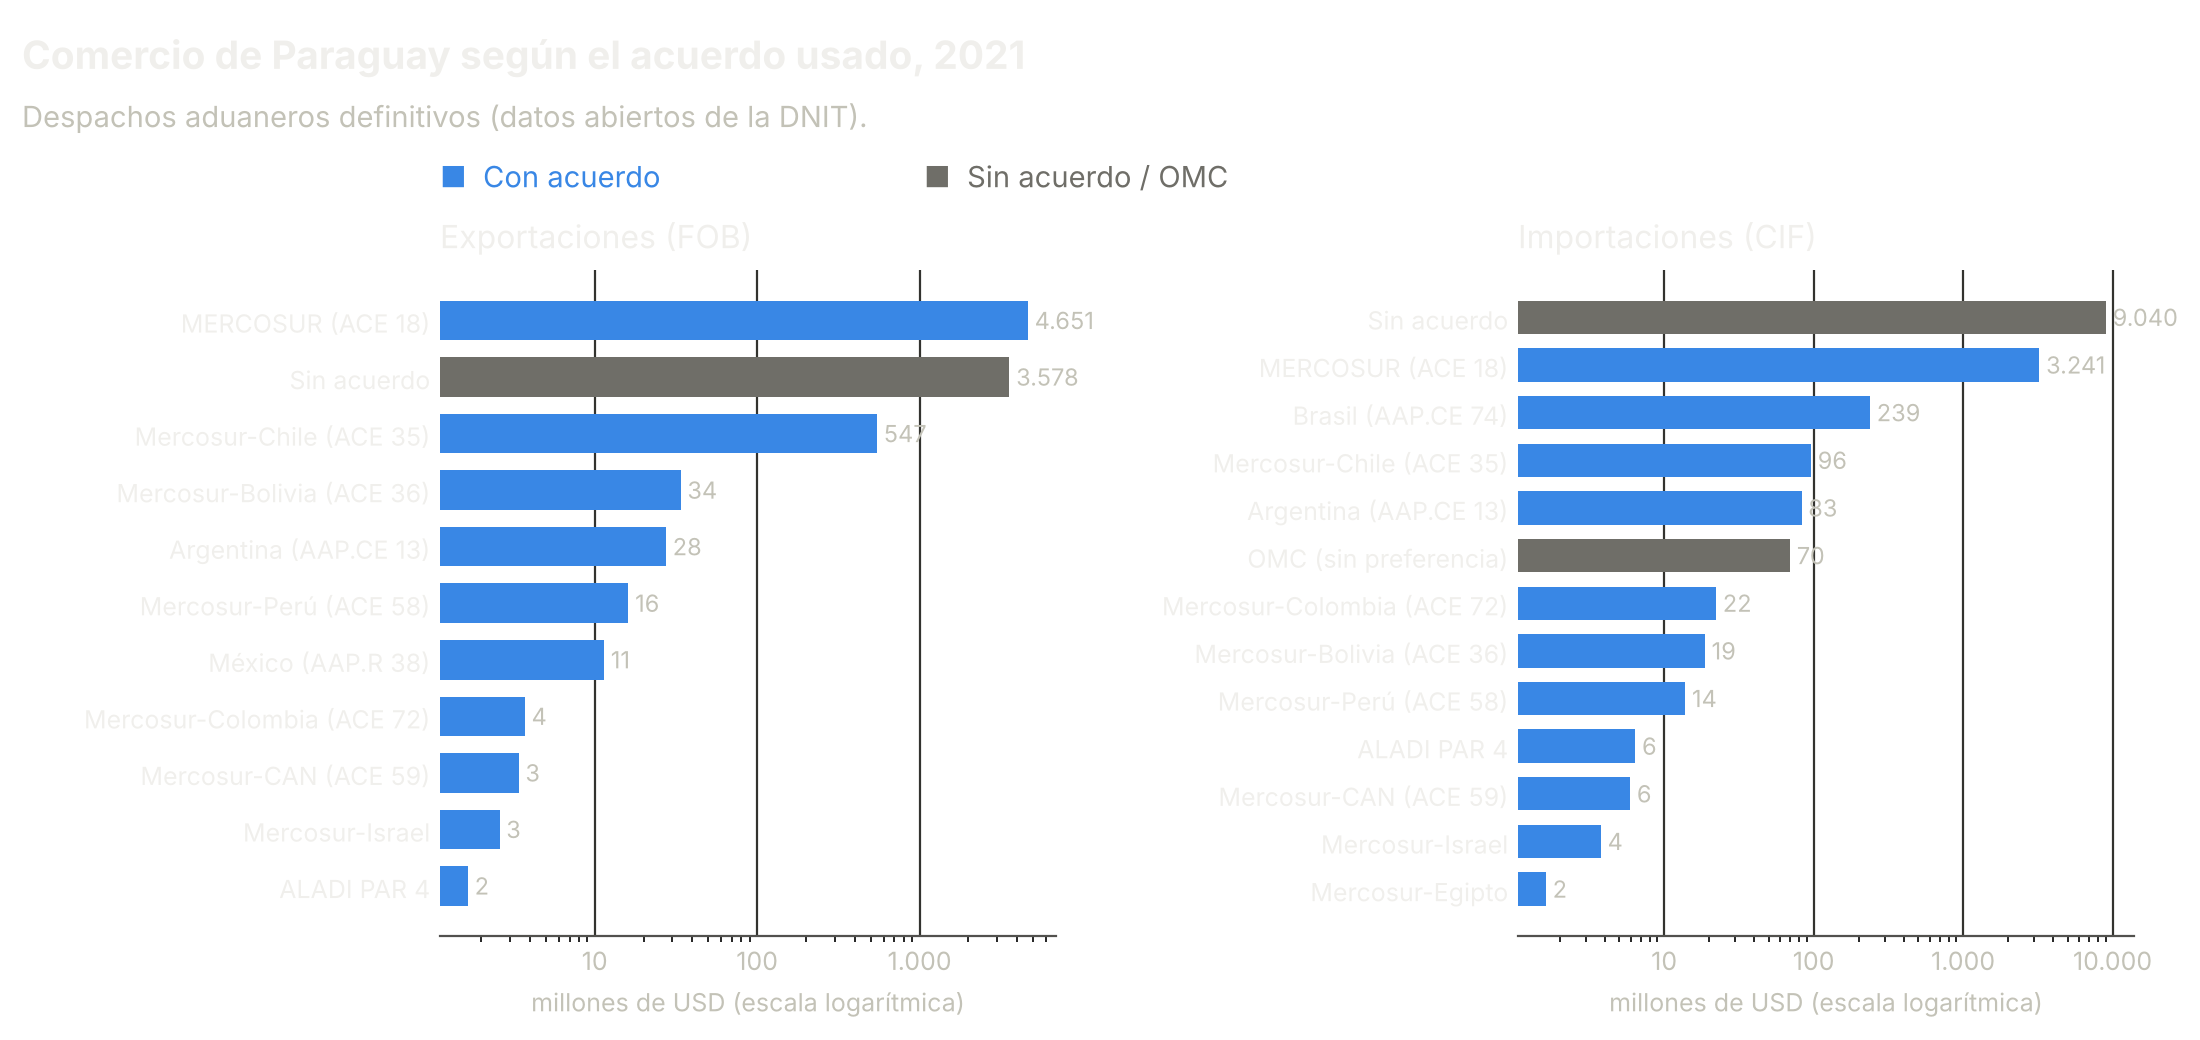
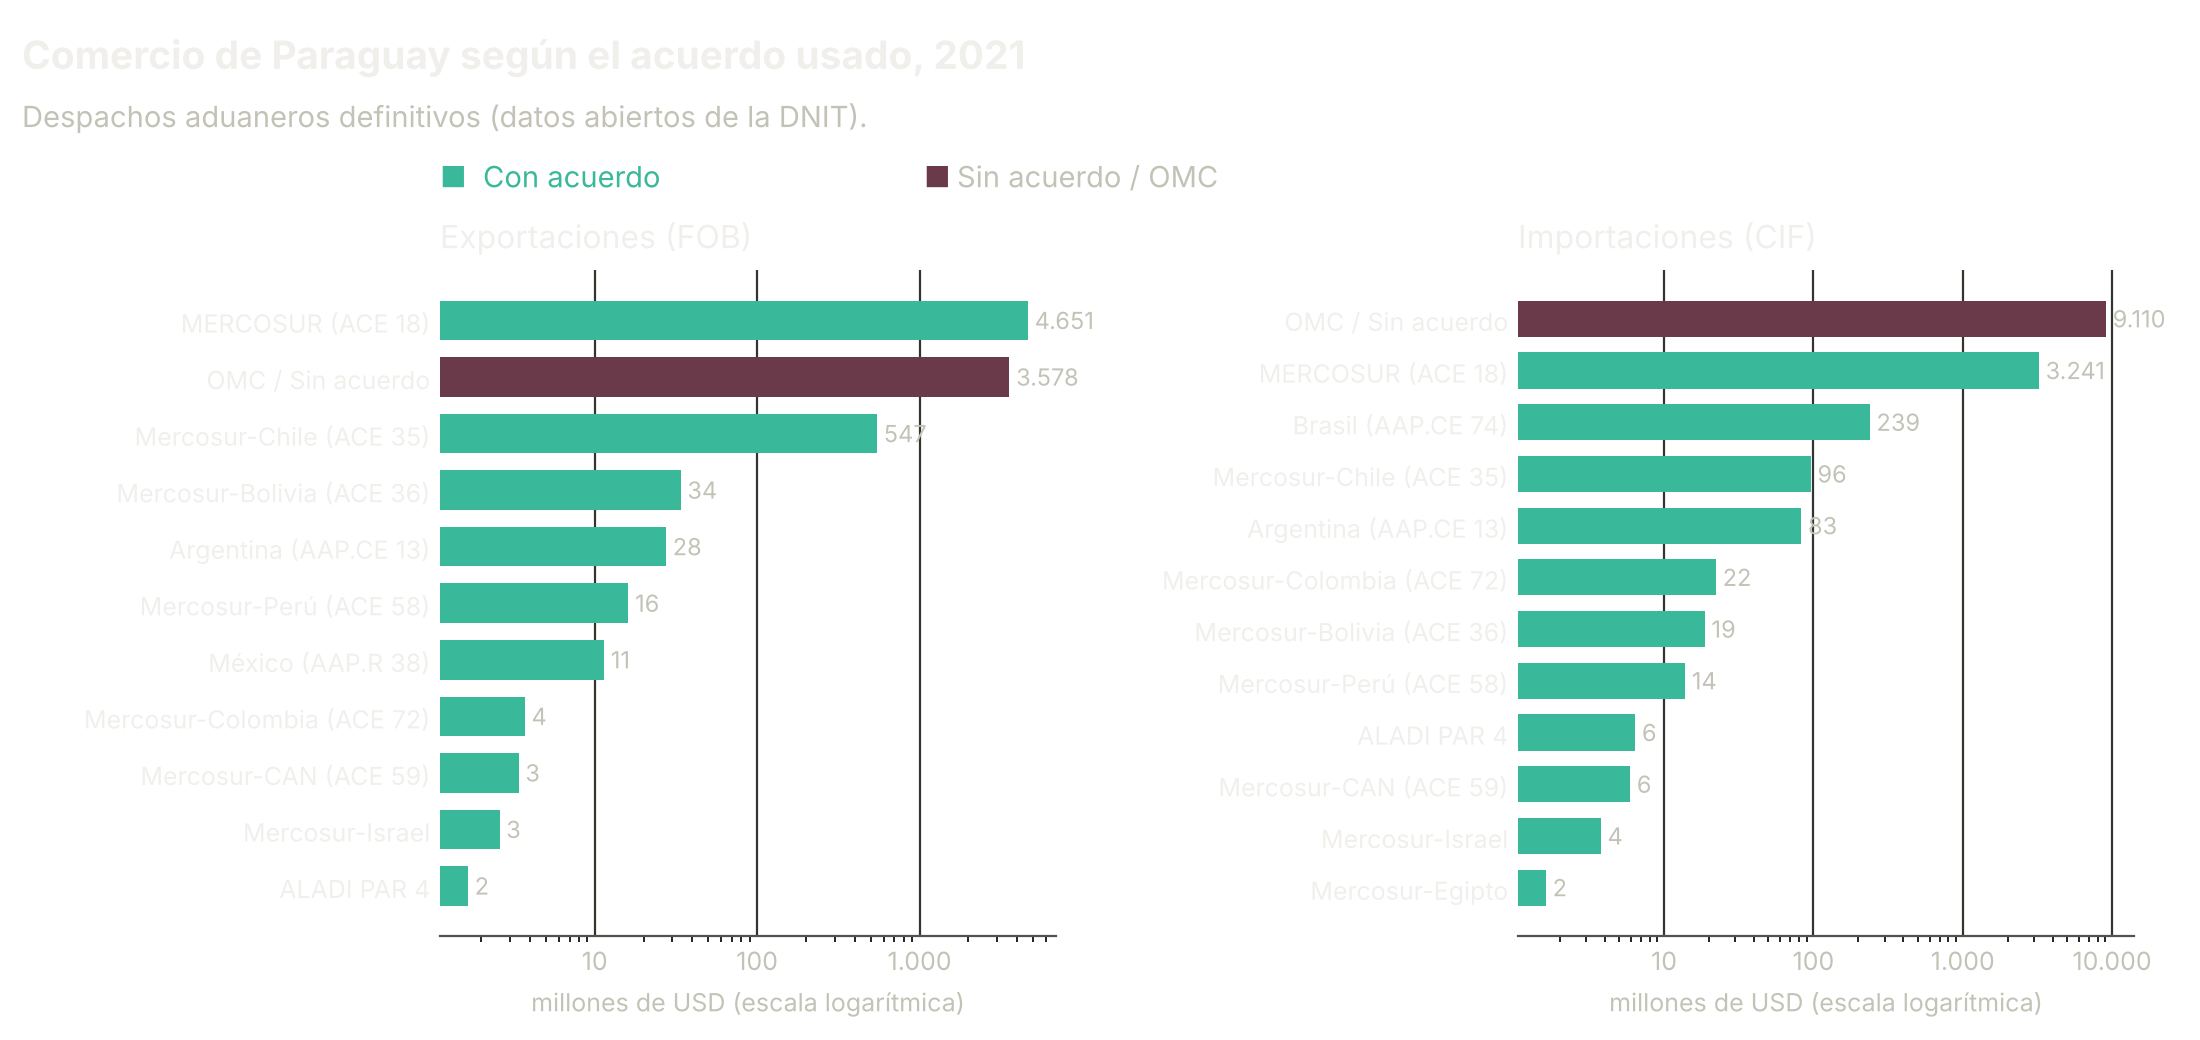
Gráficos con la nueva paleta de colores
Claude-Session: https://claude.ai/code/session_01LVp1DVkw8tc331QYQzTKYc

diff --git a/docs/figuras.py b/docs/figuras.py
@@ -21,9 +21,9 @@ IMG.mkdir(parents=True, exist_ok=True)
 
 TEMAS = {
     "light": dict(texto="#0b0b0b", texto2="#52514e", grilla="#e4e3df", eje="#c3c2b7",
-                  con="#2a78d6", sin="#a3a29b"),
+                  con="#39b89a", sin="#fec9d7"),
     "dark": dict(texto="#f0efec", texto2="#c3c2b7", grilla="#33332f", eje="#52514e",
-                 con="#3987e5", sin="#6f6e68"),
+                 con="#39b89a", sin="#6b3a4a"),
 }
 NOMBRES_CORTOS = {
     "MERCOSUR intrazona (ACE 18)": "MERCOSUR (ACE 18)",
@@ -67,7 +67,9 @@ def grafico_acuerdos(por_acuerdo, anio, modo, t):
     fig.text(0.01, 0.905, "Despachos aduaneros definitivos (datos abiertos de la DNIT).",
              fontsize=10.5, color=t["texto2"], va="top")
     fig.text(0.2, 0.82, "■  Con acuerdo", color=t["con"], fontsize=10.5)
-    fig.text(0.42, 0.82, "■  Sin acuerdo / OMC", color=t["sin"], fontsize=10.5)
+    # el rosa claro no se lee como texto: cuadrado en color, etiqueta en gris
+    fig.text(0.42, 0.82, "■", color=t["sin"], fontsize=10.5)
+    fig.text(0.435, 0.82, "Sin acuerdo / OMC", color=t["texto2"], fontsize=10.5)
     fig.savefig(IMG / f"acuerdos_{anio}_{modo}.png", dpi=200, transparent=True)
     plt.close(fig)
 
